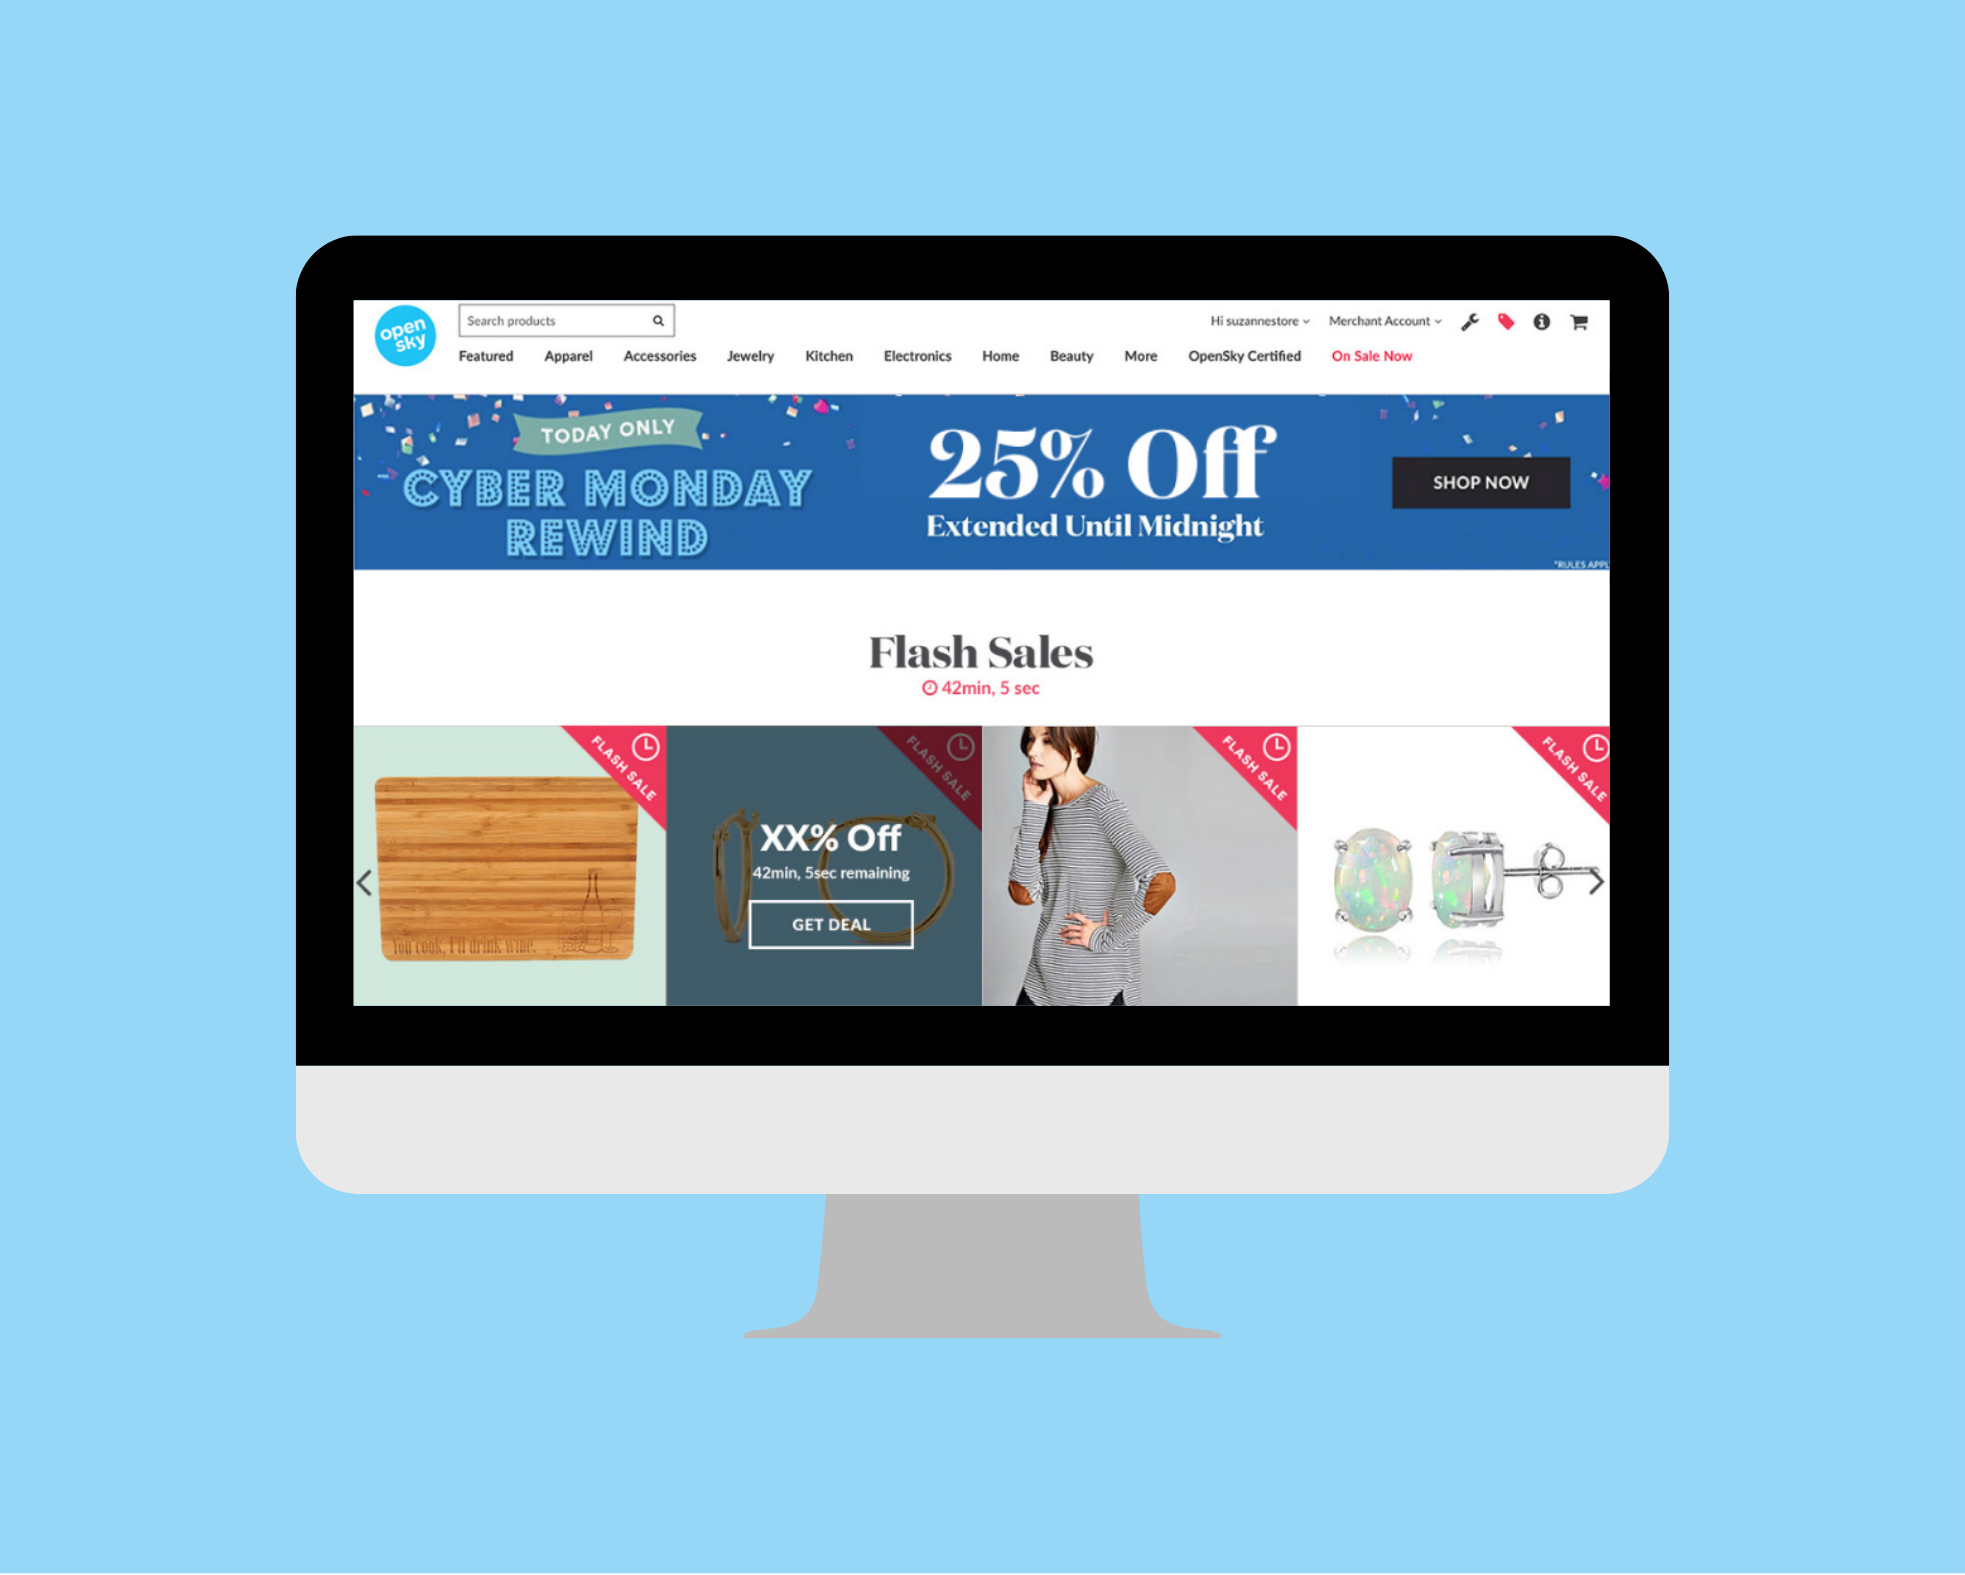
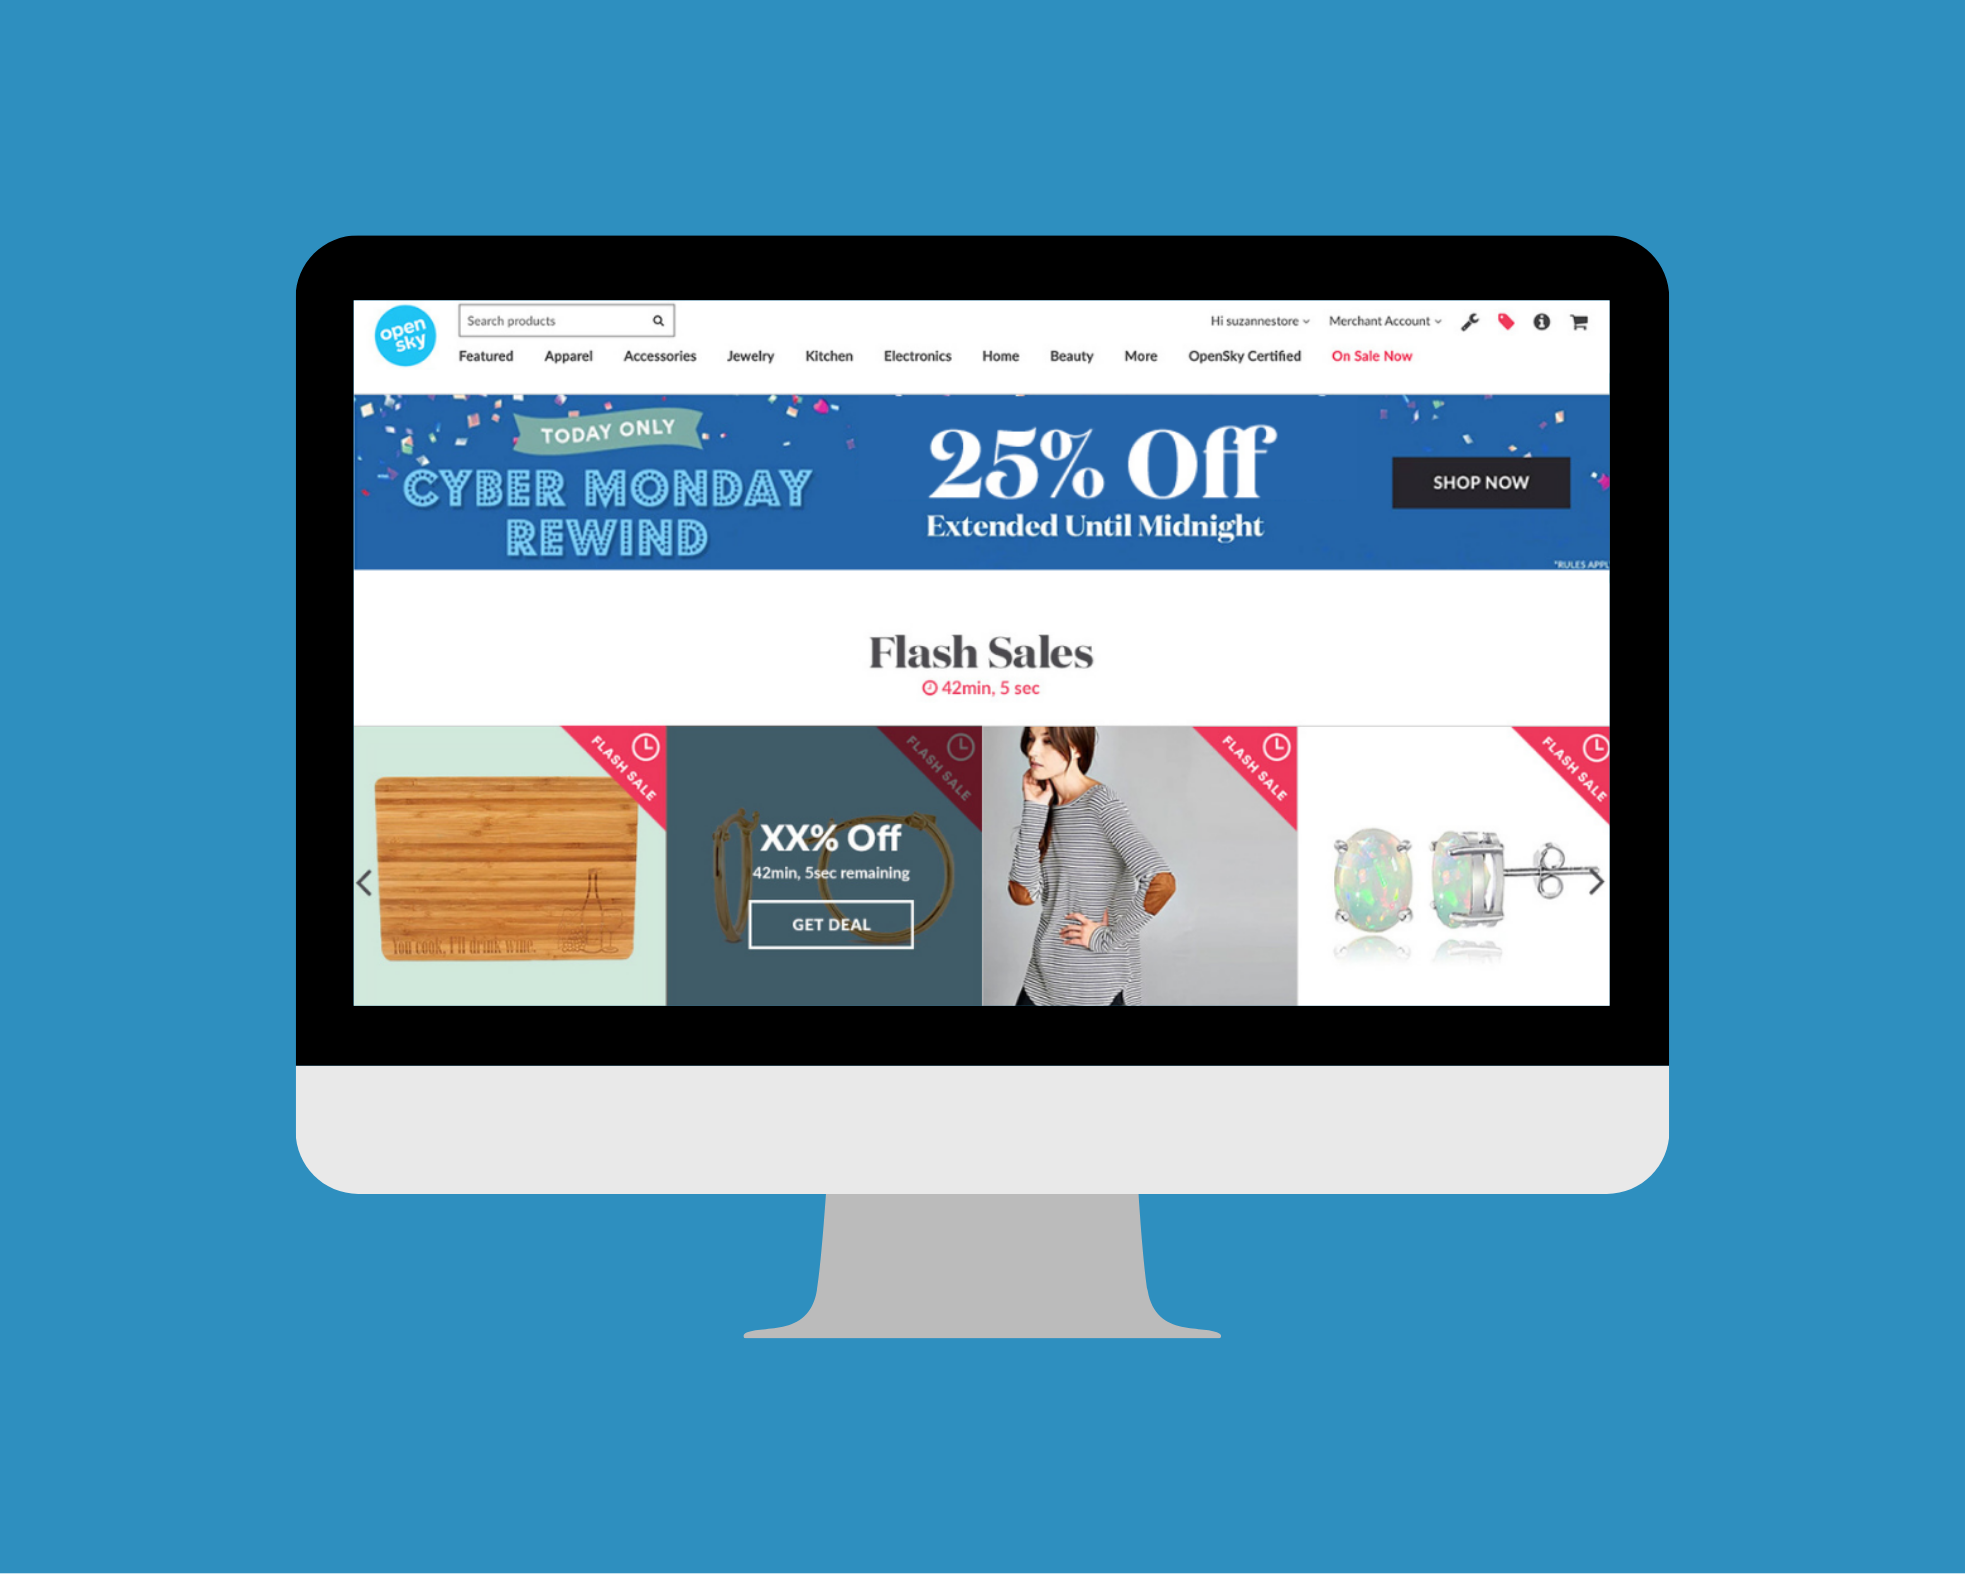
.

diff --git a/project-04.html b/project-04.html
@@ -148,14 +148,15 @@
         </div>
 
 
- <!-- Sub-slideshow: 2 slides -->
+ <!-- Sub-slideshow: 3 slides -->
         <div class="gallery-item"
-          data-thumb="os-social-scrns.png"
+          data-thumb="os-ads.png"
           data-slides='[
+            "os-ads.png",
             "os-social-scrns.png",
             "yahoo-login-takeover.jpg"
           ]'>
-          <img src="os-social-scrns.png" style="object-position: top;" alt="" />
+          <img src="os-ads.png" style="object-position: top;" alt="" />
           <div class="slide-hint"><span></span><span></span></div>
           <div class="gallery-caption">Social & Ad Marketing</div>
         </div>
